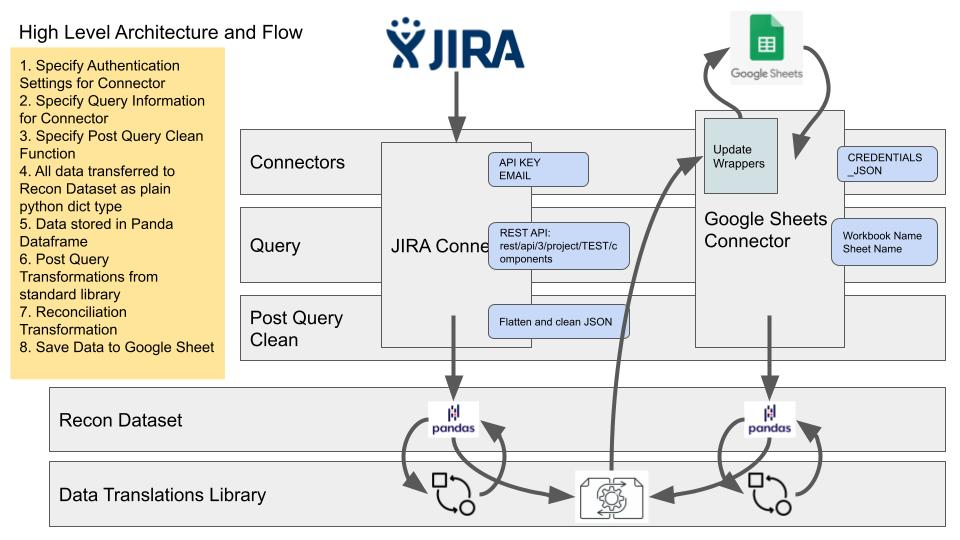
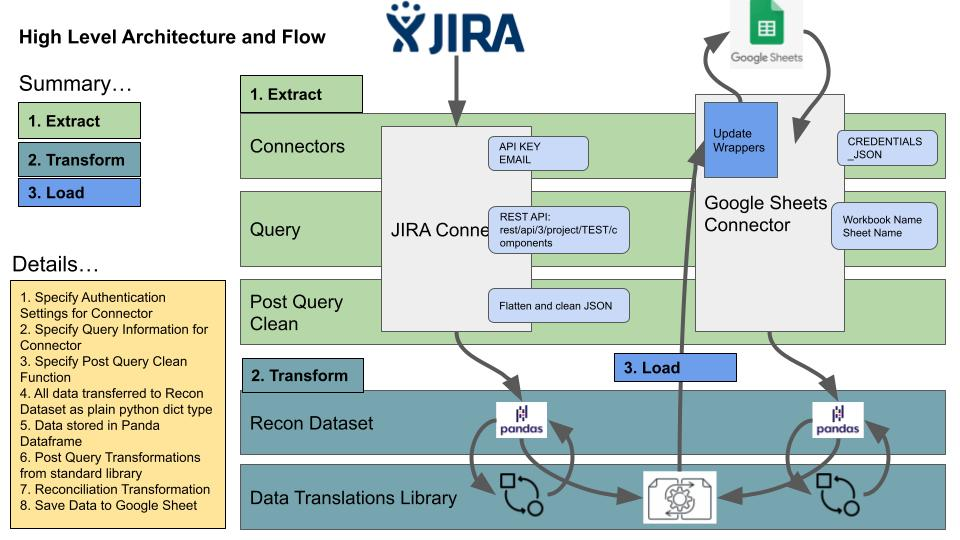
Updated docs with latest Architecture diagrams and mission

diff --git a/README.md b/README.md
@@ -1,14 +1,29 @@
 # py_recon_tools
 
-1. Convenient high level wrappers for easy access to data from JIRA & Google Sheets and more to come
-2. Standard library of transformations to clean and reconcile data
-3. Simple wrappers to update and save results in Google Sheets
+**Free The Data:** Ensure clean, simplified, up to date data safely stored and at your fingertips:
+
+How much time do you waste manually keeping track of data from multiple systems. Different systems, different formats. Is your list up to date? How to match users or ids across multiple systems?
+
+**Py Recon Tools is a lightweight ETL (Extract, Transform, Load) library with templates and examples. It enables developers to quickly extract, transform, reconcile and then store resulting data securely. This avoids time consuming manual error prone tasks.**
 
 ### Recon Tools Overview
 ![ReconToolsArchitectureDiagramOverview.jpg](readme/ReconToolsArchitectureDiagramOverview.jpg?raw=true)
 
+
+If you’re low volume (<10k records), low frequency (max hourly) you already have GitHub and Google Sheets available to you and you have development skills then **Py Recon Tools is for you.**
+
+Example uses:
+- How to link component documentation from the JIRA with an extended Google sheets list?
+- How can you tell who has a JIRA account but it not yet in GitHub?
+- How to keep multiple team lists with so many changes and new starters across different systems?
+
+
 ### Recon Tools High Level Architecture And Flow
 ![ReconToolsArchitectureDiagramHighLevelArchitectureAndFlow.jpg](readme/ReconToolsArchitectureDiagramHighLevelArchitectureAndFlow.jpg?raw=true)
+
+### Recon Tools Hosting / Production Setup
+![ReconToolHostingProductionSetup.jpg](readme/ReconToolHostingProductionSetup.jpg?raw=true)
+
 
 ### Recon Tools Test Approach
 ![ReconToolsArchitectureDiagramTestApproach.jpg](readme/ReconToolsArchitectureDiagramTestApproach.jpg?raw=true)
@@ -86,3 +101,7 @@ python -m unittest discover -s test/end2end -p 'test_*.py'
 python poc_e2e_script.py
 
 ```
+
+### Py Recon Tools Docs
+
+See this [Google Presentations](https://docs.google.com/presentation/d/1nKeGEwgP3xvYbnmz0WEcTWl8kNGfS48Pi-6drKdufVo/edit#slide=id.gf47d2de6cc_0_43) for latest version of these docs
